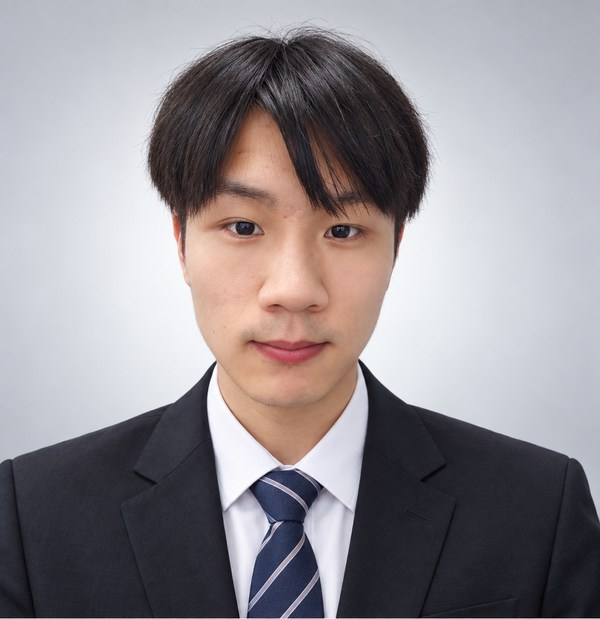
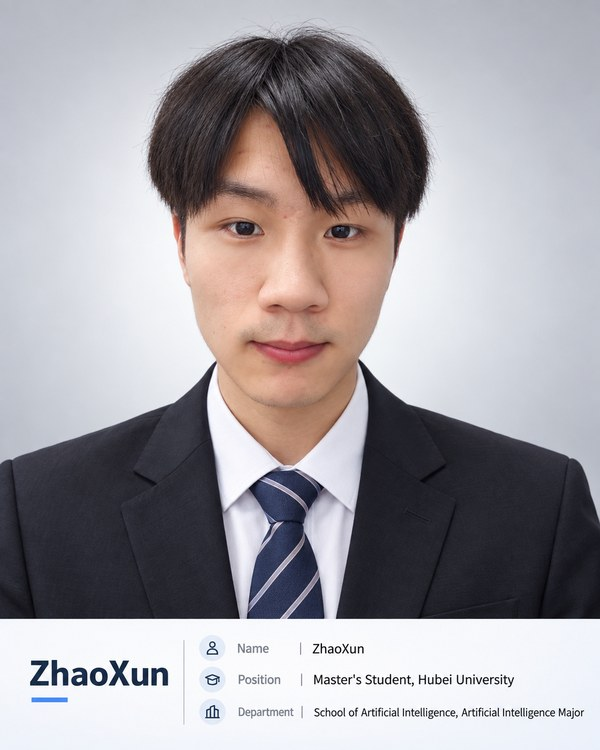
Improve homepage profile and add online CV preview

diff --git a/homepage.css b/homepage.css
@@ -233,9 +233,9 @@ h1{font-size:clamp(40px,5vw,50px);
 .reserved-link{color:#828b80;
   font-weight:400;
   border-style:dashed}
-.portrait-slot{height:145px;
+.portrait-slot{height:175px;
   width:140px;
-  background:linear-gradient(145deg,#f1f3ed,#e9eee6);
+  background:var(--surface);
   border:1px solid var(--line);
   border-radius:16px;
   overflow:hidden;
@@ -245,8 +245,10 @@ h1{font-size:clamp(40px,5vw,50px);
 .portrait-slot img{display:block;
   width:100%;
   height:100%;
-  object-fit:cover;
-  object-position:center top}
+  object-fit:contain}
+.profile-more{margin-top:10px;
+  color:var(--muted);
+  max-width:820px}
 .section{position:relative;
   padding:38px 0;
   border-top:1px solid var(--line)}
@@ -613,7 +615,7 @@ h1{font-size:clamp(40px,5vw,50px);
   gap:20px;
   padding:36px 0 33px}
 .portrait-slot{width:94px;
-  height:97px;
+  height:117px;
   margin-top:15px;
   border-radius:12px}
 h1{font-size:40px;
@@ -633,11 +635,13 @@ h1{font-size:40px;
   grid-row:1/4;
   align-self:center;
   margin:0}
-.research-statement,.profile-text,.profile-links{grid-column:1/-1;
+.research-statement,.profile-text,.profile-more,.profile-links{grid-column:1/-1;
   margin-top:0}
 .research-statement{font-size:18px;
   line-height:1.7}
 .profile-text{font-size:13px}
+.profile-more{font-size:13px;
+  margin-top:9px}
 .profile-links{font-size:12px;
   gap:8px}
 .profile-links a,.reserved-link{padding:5px 10px}
@@ -707,7 +711,7 @@ h1{font-size:40px;
 .hero{grid-template-columns:minmax(0,1fr) 75px;
   gap:16px}
 .portrait-slot{width:75px;
-  height:78px}
+  height:94px}
 .name-alternate{font-size:14px}
 .research-card{padding:14px}
 .research-links{gap:12px}
@@ -716,6 +720,85 @@ h1{font-size:40px;
 .profile-links{gap:7px}
 .profile-links a,.reserved-link{padding:5px 9px}
 .contact-email{font-size:12px}
+}
+
+.cv-page{padding:34px 0 28px}
+.cv-heading{margin-bottom:17px}
+.cv-heading h1{display:block;
+  font-size:clamp(30px,4vw,42px);
+  line-height:1.25}
+.cv-heading p:last-child{margin-top:8px;
+  color:var(--muted)}
+.cv-actions{display:flex;
+  align-items:center;
+  flex-wrap:wrap;
+  gap:10px;
+  margin:18px 0 16px}
+.cv-button{display:inline-flex;
+  align-items:center;
+  gap:7px;
+  padding:8px 14px;
+  border:1px solid var(--line);
+  border-radius:9px;
+  background:var(--surface);
+  color:var(--ink);
+  font-size:13px;
+  font-weight:650;
+  line-height:1.6}
+.cv-button:hover{text-decoration:none;
+  border-color:#b9cebf;
+  background:#edf3ed}
+.cv-button-primary{border-color:var(--green);
+  background:var(--green);
+  color:#fff}
+.cv-button-primary:hover{border-color:#0c5947;
+  background:#0c5947;
+  color:#fff}
+.cv-preview{display:grid;
+  gap:22px;
+  padding:18px;
+  border:1px solid var(--line);
+  border-radius:16px;
+  background:rgba(255,254,251,.72);
+  box-shadow:var(--shadow-soft)}
+.cv-preview-page{width:100%;
+  max-width:760px;
+  margin:0 auto;
+  padding:14px 14px 8px;
+  border:1px solid var(--line);
+  border-radius:12px;
+  background:#fff;
+  box-shadow:0 5px 18px rgba(33,54,44,.045)}
+.cv-preview-page figcaption{margin-bottom:10px;
+  color:var(--muted);
+  font-size:12px;
+  font-weight:650}
+.cv-preview-page img{display:block;
+  width:100%;
+  height:auto}
+.cv-note{margin-top:11px;
+  color:var(--muted);
+  font-size:12px}
+.cv-home-link{padding:6px 11px;
+  border:1px solid var(--line);
+  border-radius:8px;
+  background:var(--surface);
+  color:var(--green);
+  font-size:13px;
+  font-weight:600}
+.cv-home-link:hover{text-decoration:none;
+  background:#edf3ed}
+@media(max-width:760px){.cv-page{padding:25px 0}
+.cv-preview{gap:14px;
+  padding:9px;
+  border-radius:12px}
+.cv-preview-page{padding:8px 8px 5px;
+  border-radius:9px}
+.cv-preview-page figcaption{font-size:11px}
+.cv-heading h1{font-size:32px}
+.cv-actions{gap:8px}
+.cv-button{font-size:12px;
+  padding:7px 10px}
 }
 
 @keyframes ambient-breathe{from{opacity:.45}to{opacity:1}}

diff --git a/index.html b/index.html
@@ -21,7 +21,7 @@
   <meta name="twitter:description" content="湖北大学 EILab · VLA · 双臂机器人学习" data-content-en="Hubei University · EILab · VLA · Dual-arm robot learning">
   <meta name="twitter:image" content="https://zx2002430.github.io/Personal-Homepage/assets/images/homepage-social.png">
   <link rel="icon" type="image/svg+xml" href="assets/images/favicon.svg">
-  <link rel="stylesheet" href="homepage.css?v=20261003-profile-cv">
+  <link rel="stylesheet" href="homepage.css?v=20261003-profile-cv3">
   <script type="application/ld+json">{"@context":"https://schema.org","@type":"Person","name":"Xun Zhao","alternateName":"赵汛","url":"https://zx2002430.github.io/Personal-Homepage/","affiliation":{"@type":"Organization","name":"School of Artificial Intelligence, Hubei University"},"sameAs":["https://github.com/zx2002430"],"knowsAbout":["Vision-Language-Action","Robot Learning","Meta Multi-Agent Reinforcement Learning","Sim-to-Real"]}</script>
   <script src="script.js?v=20261003-motion" defer></script>
 </head>
@@ -54,14 +54,15 @@
         <p class="identity-line" data-en="Graduate student · School of Artificial Intelligence, Hubei University">湖北大学人工智能学院研究生</p>
         <p class="research-statement" data-en="I study how robot policies adapt efficiently to new tasks and transfer from simulation to physical systems.">研究机器人策略如何高效适应新任务，并从仿真走向真实系统。</p>
         <p class="profile-text"><span data-en="At ">依托 </span><a href="https://eilab-wanghong.eu.cc/" target="_blank" rel="noopener noreferrer">EILab</a><span data-en=", my work spans efficient vision-language-action adaptation, dual-arm meta multi-agent reinforcement learning, and physical robot deployment.">，围绕视觉-语言-动作模型的高效适配、双臂元多智能体强化学习与真机部署开展研究。</span></p>
+        <p class="profile-more" data-en="My work connects algorithm design with physical robot systems: from cross-task training and dynamic obstacle avoidance in MuJoCo to RGB-D perception, joint-velocity control, and deployment on a dual-UR5 platform. Two related manuscripts are under review at AAMAS 2027—DM-NAV for dual-arm dynamic obstacle avoidance and an empirical study of parameter-efficient VLA fine-tuning—while a VLA-MoE study continues.">研究也覆盖算法与系统实践：从 MuJoCo 中的跨任务训练和动态避障，到双 UR5 平台上的 RGB-D 感知、关节速度控制与真机部署。两项相关工作目前正在 AAMAS 2027 审稿，分别是研究双臂动态避障的 DM-NAV，以及视觉-语言-动作模型参数高效微调的实证研究；VLA-MoE 方向仍在推进。</p>
         <div class="profile-links">
           <a href="mailto:zhaoxun@stu.hubu.edu.cn" data-en="Email ↗">邮箱 ↗</a>
           <a href="https://github.com/zx2002430" target="_blank" rel="noopener noreferrer">GitHub ↗</a>
           <a href="https://eilab-wanghong.eu.cc/" target="_blank" rel="noopener noreferrer" data-en="EILab ↗">实验室 ↗</a>
-          <a href="assets/cv/zhao-xun-academic-cv-bilingual.pdf" download="Zhao-Xun-Academic-CV.pdf" data-en="CV · PDF ↓">CV · 中英 PDF ↓</a>
+          <a href="cv.html" data-en="CV · View Online ↗">CV · 在线查看 ↗</a>
         </div>
       </div>
-      <div class="portrait-slot"><img src="assets/images/xun-zhao-profile.jpg" alt="赵汛的个人照片" data-alt-en="Portrait of Xun Zhao"></div>
+      <div class="portrait-slot"><img src="assets/images/xun-zhao-profile.jpg" alt="赵汛个人形象照及基本信息" data-alt-en="Portrait and profile card for Xun Zhao"></div>
     </section>
 
     <section class="section research-section" id="publications" aria-labelledby="research-title">

diff --git a/cv.html b/cv.html
@@ -1,0 +1,43 @@
+<!doctype html>
+<html lang="zh-CN">
+<head>
+  <meta charset="utf-8">
+  <meta name="viewport" content="width=device-width, initial-scale=1">
+  <meta name="description" content="赵汛的中英双语学术简历，可在线预览或下载。" data-content-en="Bilingual academic CV of Xun Zhao. View it online or download a copy.">
+  <title data-en="Academic CV | Xun Zhao">学术简历 | 赵汛</title>
+  <link rel="icon" type="image/svg+xml" href="assets/images/favicon.svg">
+  <link rel="stylesheet" href="homepage.css?v=20261003-profile-cv3">
+  <script src="script.js?v=20261003-motion" defer></script>
+</head>
+<body>
+  <header class="site-header cv-header">
+    <a class="brand" href="index.html#top">XUN ZHAO <span class="brand-dot" aria-hidden="true"></span></a>
+    <a class="cv-home-link" href="index.html#top" data-en="← Back to homepage">← 返回主页</a>
+  </header>
+  <main class="page-shell" id="main-content">
+    <section class="cv-page" aria-labelledby="cv-title">
+      <div class="cv-heading">
+        <p class="eyebrow" data-en="CURRICULUM VITAE">学术简历</p>
+        <h1 id="cv-title" data-en="Academic CV">个人简历</h1>
+        <p data-en="Bilingual edition · English first, followed by Chinese">中英双语版 · 英文在前，中文在后</p>
+      </div>
+      <div class="cv-actions" aria-label="简历查看与下载" data-label-en="CV viewing and download options">
+        <a class="cv-button cv-button-primary" href="assets/cv/zhao-xun-academic-cv-bilingual.pdf" download="Zhao-Xun-Academic-CV.pdf"><span data-en="Download PDF">下载 PDF</span> ↓</a>
+        <a class="cv-button" href="assets/cv/zhao-xun-academic-cv-bilingual.docx" download="Zhao-Xun-Academic-CV.docx"><span data-en="Download editable Word file">下载可编辑 Word 版</span> ↓</a>
+      </div>
+      <div class="cv-preview" aria-label="简历逐页预览" data-label-en="CV page previews">
+        <figure class="cv-preview-page">
+          <figcaption data-en="Page 1 · English">第 1 页 · English</figcaption>
+          <img src="assets/cv/zhao-xun-academic-cv-en-preview.jpg" alt="英文版学术简历，第 1 页" data-alt-en="English academic CV, page 1" loading="eager">
+        </figure>
+        <figure class="cv-preview-page">
+          <figcaption data-en="Page 2 · Chinese">第 2 页 · 中文</figcaption>
+          <img src="assets/cv/zhao-xun-academic-cv-zh-preview.jpg" alt="中文版学术简历，第 2 页" data-alt-en="Chinese academic CV, page 2" loading="lazy">
+        </figure>
+      </div>
+      <p class="cv-note" data-en="The pages above can be read directly online. Use the buttons above to download the PDF or editable Word file.">上方可直接在线阅读两页简历；如需保存，可使用 PDF 或可编辑 Word 下载按钮。</p>
+    </section>
+    <footer class="site-footer"><span>© 2026 Xun Zhao</span><a href="index.html#top" data-en="Return to homepage ↗">返回主页 ↗</a></footer>
+  </main>
+</body>
+</html>
